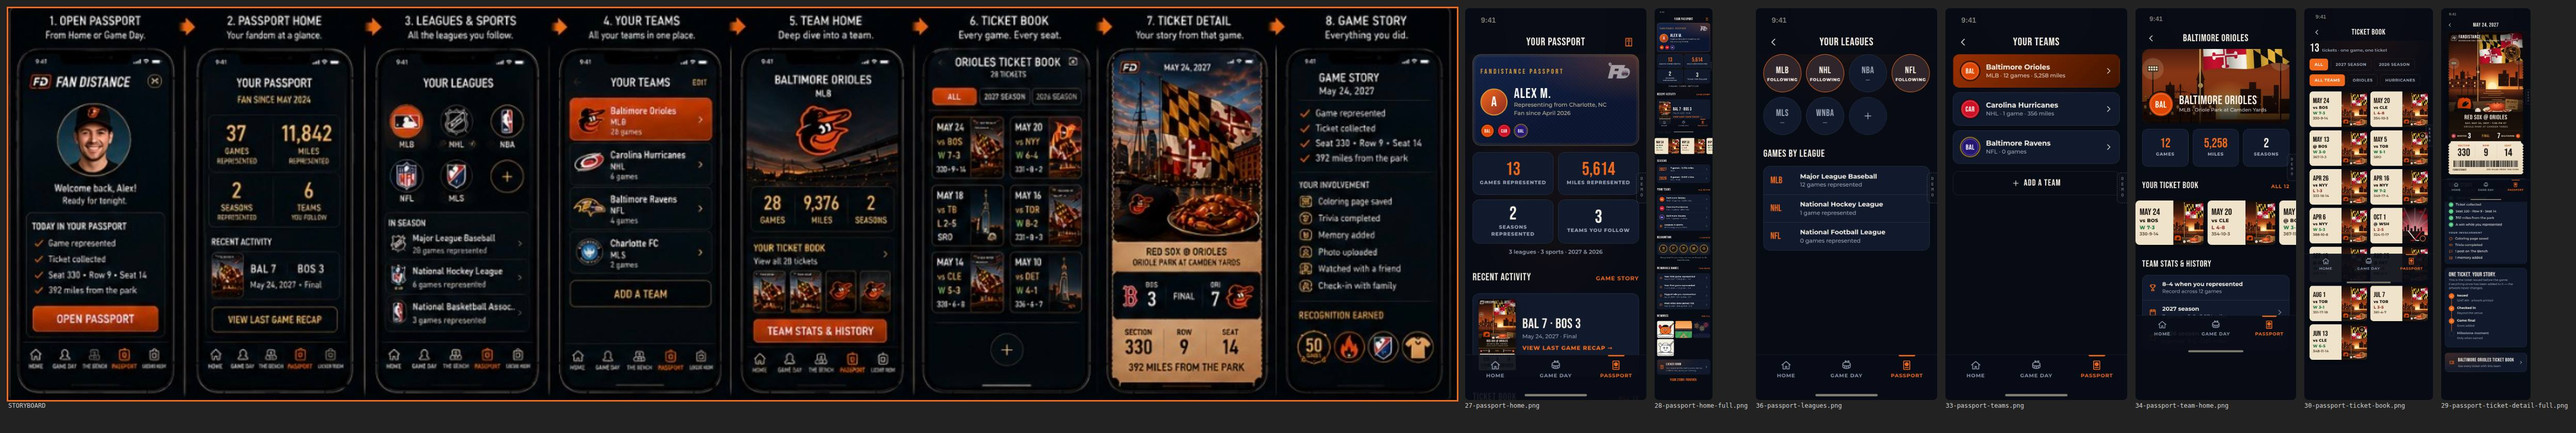
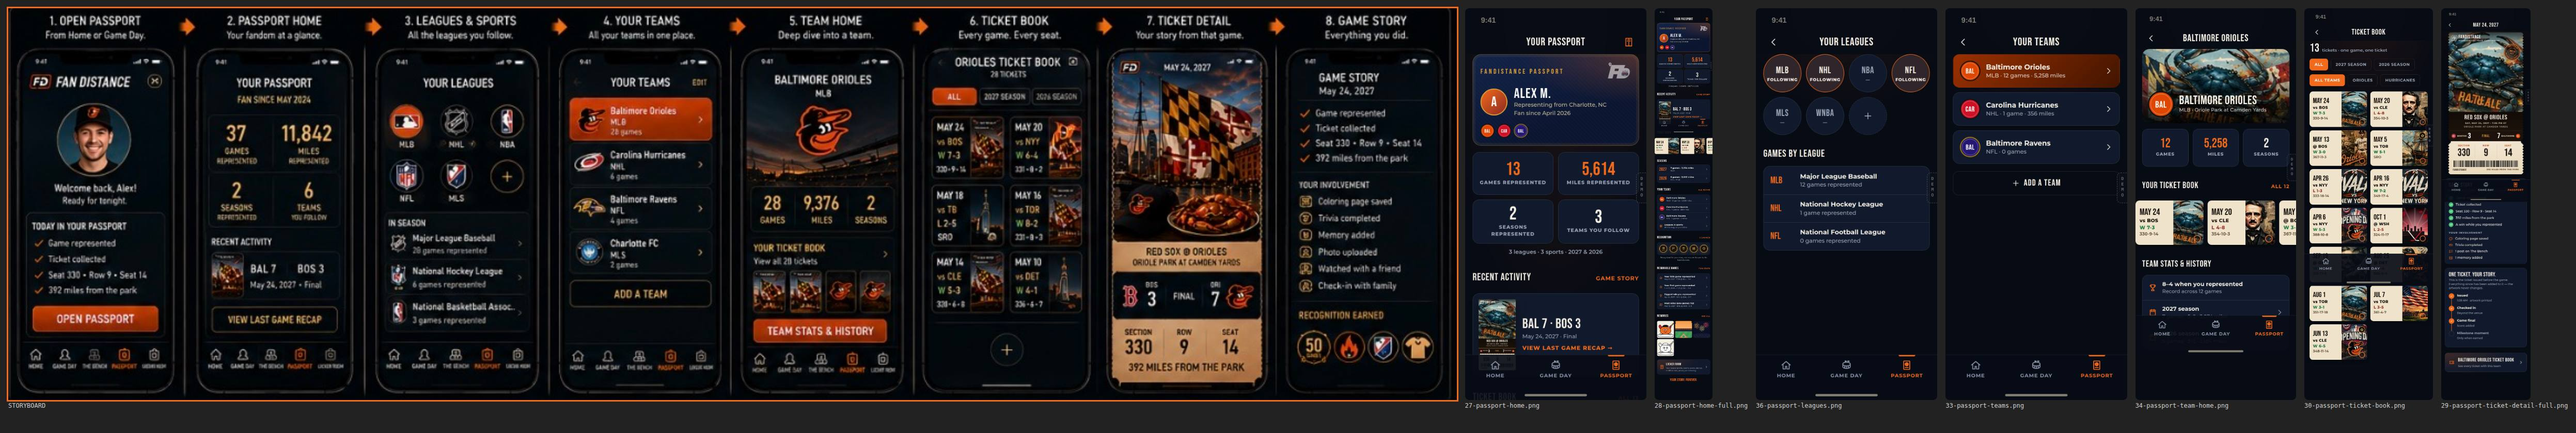
Use approved Orioles ticket art concepts on tickets
- Add the approved 24-concept Orioles art sheet to docs/storyboards
- Cut 23 concepts into public/art/orioles (24 Last Home Game is obscured
  by a screen overlay in the supplied image and is left out)
- Artwork catalog with per-concept focal points; tickets carry an
  artImage frozen at issue: Blue Crab for tonight's game, Giveaway Day on
  the milestone giveaway game, Opening Day on season openers, July 4th,
  Rivalry Series vs New York, stable rotation otherwise
- Other teams keep the generated posters
- Saved demo state bumped to v2 so existing sessions pick up the art

Claude-Session: https://claude.ai/code/session_01DnBaGdaMLzfrAvJsYXQgfC

diff --git a/src/data/artwork.ts b/src/data/artwork.ts
@@ -1,0 +1,73 @@
+import type { HistoryGame } from './types';
+
+/**
+ * Approved Baltimore Orioles ticket art concepts (docs/storyboards/06-orioles-ticket-art-concepts.png).
+ * The sheet marks these as art direction; final artwork is produced per game for the 2027 season.
+ * Until those masters arrive, each concept is cut from the approved sheet into public/art/orioles/.
+ * `focus` is the object-position used when the landscape concept fills the portrait ticket.
+ */
+export interface Artwork {
+  id: string;
+  n: number;
+  title: string;
+  file: string;
+  focus: string;
+}
+
+const A = (n: number, id: string, title: string, focus = '50% 50%'): Artwork => ({
+  id,
+  n,
+  title,
+  file: `${String(n).padStart(2, '0')}-${id}.webp`,
+  focus,
+});
+
+export const ORIOLES_ART: Artwork[] = [
+  A(1, 'camden-yards', 'Camden Yards Icon', '38% 50%'),
+  A(2, 'orioles-player', 'Orioles Player', '42% 50%'),
+  A(3, 'pitcher-on-the-mound', 'Pitcher on the Mound', '48% 50%'),
+  A(4, 'city-skyline', 'City Skyline', '52% 50%'),
+  A(5, 'inner-harbor', 'Inner Harbor', '30% 50%'),
+  A(6, 'blue-crab', 'Blue Crab', '52% 50%'),
+  A(7, 'black-eyed-susans', 'Black-Eyed Susans', '50% 50%'),
+  A(8, 'edgar-allan-poe', 'Edgar Allan Poe', '58% 50%'),
+  A(9, 'poe-pitcher', 'Poe + Pitcher', '40% 50%'),
+  A(10, 'rowhouses', 'Rowhouses', '35% 50%'),
+  A(11, 'fort-mchenry', 'Fort McHenry / Flag', '45% 50%'),
+  A(12, 'chesapeake-bay', 'Chesapeake Bay', '70% 50%'),
+  A(13, 'stadium-night-lights', 'Stadium Night Lights', '50% 50%'),
+  A(14, 'orioles-raven', 'Orioles Raven', '55% 50%'),
+  A(15, 'baseball-still-life', 'Baseball Still Life', '45% 50%'),
+  A(16, 'history-heritage', 'History & Heritage', '65% 50%'),
+  A(17, 'harbor-ship-heritage', 'Harbor Ship Heritage', '40% 50%'),
+  A(18, 'baltimore-railroad', 'Baltimore Railroad', '42% 50%'),
+  A(19, 'opening-day', 'Opening Day', '50% 50%'),
+  A(20, 'july-4th-fireworks', 'July 4th Fireworks', '50% 50%'),
+  A(21, 'fan-celebration', 'Fan Celebration', '35% 50%'),
+  A(22, 'giveaway-day', 'Giveaway Day', '40% 50%'),
+  A(23, 'rivalry-series', 'Rivalry Series', '50% 50%'),
+  // 24 Last Home Game: not yet available — the supplied sheet has a screen overlay across it.
+];
+
+const BY_ID = Object.fromEntries(ORIOLES_ART.map((a) => [a.id, a]));
+
+export const artwork = (id?: string): Artwork | undefined => (id ? BY_ID[id] : undefined);
+
+export const artworkUrl = (a: Artwork) => `${import.meta.env.BASE_URL}art/orioles/${a.file}`;
+
+/** Everyday concepts rotated across regular games (event concepts are reserved for their moments). */
+const EVERYDAY = ORIOLES_ART.filter((a) => !['opening-day', 'july-4th-fireworks', 'giveaway-day', 'rivalry-series'].includes(a.id));
+
+function hash(s: string) {
+  let h = 2166136261;
+  for (const c of s) h = Math.imul(h ^ c.charCodeAt(0), 16777619);
+  return h >>> 0;
+}
+
+/** Picks the concept for a past Orioles game: event art for its moment, otherwise a stable rotation. */
+export function orioleArtFor(h: HistoryGame, isSeasonOpener: boolean): string {
+  if (isSeasonOpener) return 'opening-day';
+  if (h.date === 'Jul 4') return 'july-4th-fireworks';
+  if (h.opponent === 'NYY') return 'rivalry-series';
+  return EVERYDAY[hash(h.id) % EVERYDAY.length].id;
+}

diff --git a/src/data/scenarios.ts b/src/data/scenarios.ts
@@ -42,6 +42,7 @@ const baseGame = (over: Partial<Game> = {}): Game => ({
   season: '2027',
   venue: 'Oriole Park at Camden Yards',
   art: 'baltimore-harbor',
+  artImage: 'blue-crab',
   status: 'window',
   startsInMin: 55,
   seat: { kind: 'seat', section: '330', row: '9', seat: '14' },
@@ -66,6 +67,7 @@ export const issueTicketFor = (game: Game, fan: Fan, now: number): Ticket => ({
   id: `tkt-${game.id}`,
   gameId: game.id,
   art: game.art,
+  artImage: game.artImage,
   issuedAt: now,
   seat: game.seat ?? { kind: 'sro', area: 'Standing Room Only' },
   joinedCount: game.joinedCount,
@@ -166,6 +168,7 @@ export function buildScenario(id: ScenarioId, now: number): ScenarioData {
             timeLabel: '7:00 PM ET',
             venue: 'Lenovo Center',
             art: 'raleigh-ice',
+            artImage: undefined,
             status: 'live',
             startsInMin: -15,
             seat: { kind: 'seat', section: '305', row: 'F', seat: '7' },
@@ -180,6 +183,7 @@ export function buildScenario(id: ScenarioId, now: number): ScenarioData {
             timeLabel: '8:15 PM ET',
             venue: 'M&T Bank Stadium',
             art: 'baltimore-gridiron',
+            artImage: undefined,
             status: 'window',
             startsInMin: 60,
             seat: { kind: 'seat', section: '540', row: '12', seat: '3' },
@@ -211,6 +215,7 @@ export function buildScenario(id: ScenarioId, now: number): ScenarioData {
       const game = baseGame({
         status: 'live',
         startsInMin: -40,
+        artImage: 'giveaway-day',
         milestones: [{ kind: 'giveaway', label: 'GIVEAWAY', detail: 'Orange Hat Night giveaway', value: 'HAT' }],
       });
       const t = issueTicketFor(game, FAN, now - 1000 * 60 * 95);

diff --git a/src/state/store.test.ts b/src/state/store.test.ts
@@ -25,6 +25,8 @@ describe('ticket lifecycle: one game = one ticket', () => {
     const t = s.data.tickets[GAME];
     expect(t.id).toBe(issued.id);
     expect(t.art).toBe(issued.art);
+    expect(t.artImage).toBe('blue-crab');
+    expect(t.artImage).toBe(issued.artImage);
     expect(t.issuedAt).toBe(issued.issuedAt);
     expect(t.checkedInAt).toBe(3000);
     expect(t.finalScore).toEqual({ home: 7, away: 3 });
@@ -38,6 +40,7 @@ describe('ticket lifecycle: one game = one ticket', () => {
     const labels = s.data.tickets[GAME].marks.map((m) => m.label);
     expect(labels).toEqual(['50 GAMES', '5-GAME STREAK', 'GIVEAWAY']);
     expect(s.data.tickets[GAME].art).toBe(before.art);
+    expect(s.data.tickets[GAME].artImage).toBe('giveaway-day');
   });
 
   it('keeps the ticket permanently in the Passport ticket book', () => {
@@ -55,5 +58,14 @@ describe('ticket lifecycle: one game = one ticket', () => {
     let s = initialState('B', 1000);
     s = reducer(s, { type: 'issueTicket', gameId: GAME, now: 2000 });
     expect(s.data.tickets[GAME].seat.kind).toBe('sro');
+  });
+});
+
+describe('approved Orioles artwork', () => {
+  it('gives every past Orioles ticket an approved concept, with Opening Day on each season opener', () => {
+    const book = allTickets(initialState('F', 1000)).filter((t) => t.fanTeamId === 'BAL');
+    expect(book.every((t) => t.artImage)).toBe(true);
+    const openers = ['2026', '2027'].map((season) => book.filter((t) => t.season === season).at(-1)!);
+    for (const t of openers) expect(t.artImage).toBe('opening-day');
   });
 });

diff --git a/src/components/TicketArt.tsx b/src/components/TicketArt.tsx
@@ -1,8 +1,11 @@
 import { useId, type ReactNode } from 'react';
 import type { ArtThemeId } from '../data/types';
+import { artwork, artworkUrl } from '../data/artwork';
 
 interface Props {
   theme: ArtThemeId;
+  /** Approved artwork concept id; renders that image instead of the generated poster. */
+  image?: string;
   /** e.g. ['05', '24', '27'] — date identity painted into the artwork */
   date: string;
   time: string;
@@ -14,7 +17,10 @@ interface Props {
  * Collectible poster artwork. Generated once per game and frozen on the ticket:
  * team identity, city/local culture, venue elements, game specifics and date/time.
  */
-export function TicketArt({ theme, date, time, lite }: Props) {
+export function TicketArt({ theme, image, date, time, lite }: Props) {
+  const approved = artwork(image);
+  if (approved)
+    return <img className="ticket-art-svg ticket-art-img" src={artworkUrl(approved)} alt="" style={{ objectPosition: approved.focus }} decoding="async" draggable={false} />;
   const uid = useId().replace(/:/g, '');
   switch (theme) {
     case 'baltimore-harbor':

diff --git a/src/data/history.ts b/src/data/history.ts
@@ -1,5 +1,6 @@
 import type { ArtThemeId, HistoryGame, Sport } from './types';
 import { TEAMS } from './teams';
+import { orioleArtFor } from './artwork';
 
 /** Deterministic PRNG so demo history is identical on every load. */
 function mulberry32(seed: number) {
@@ -86,6 +87,14 @@ export function buildHistory(specs: HistorySpec[], seed = 7): HistoryGame[] {
         miles,
       });
     });
+  }
+  // Orioles tickets carry the approved Baltimore artwork concepts
+  const openers = new Set<string>();
+  for (const h of [...out].sort((a, b) => sortKey(a) - sortKey(b))) {
+    if (h.teamId !== 'BAL') continue;
+    const opener = !openers.has(h.season);
+    openers.add(h.season);
+    h.artImage = orioleArtFor(h, opener);
   }
   // newest first
   return out.sort((a, b) => sortKey(b) - sortKey(a));

diff --git a/src/state/store.tsx b/src/state/store.tsx
@@ -21,7 +21,7 @@ export interface Prefs {
 }
 
 export interface AppState {
-  v: 1;
+  v: 2;
   scenario: ScenarioId;
   loadedAt: number;
   data: ScenarioData;
@@ -43,7 +43,7 @@ const DEFAULT_PREFS: Prefs = {
 
 export function initialState(scenario: ScenarioId = 'A', now = Date.now()): AppState {
   return {
-    v: 1,
+    v: 2,
     scenario,
     loadedAt: now,
     data: buildScenario(scenario, now),
@@ -171,7 +171,7 @@ function load(): AppState {
     const raw = localStorage.getItem(STORAGE_KEY);
     if (raw) {
       const parsed = JSON.parse(raw) as AppState;
-      if (parsed?.v === 1 && parsed.data?.games) return parsed;
+      if (parsed?.v === 2 && parsed.data?.games) return parsed;
     }
   } catch {
     /* storage unavailable — fall through to a fresh demo */

diff --git a/src/data/types.ts b/src/data/types.ts
@@ -32,6 +32,8 @@ export interface Game {
   season: string; // "2027"
   venue: string;
   art: ArtThemeId;
+  /** Approved team artwork concept id (src/data/artwork.ts); falls back to `art` when absent. */
+  artImage?: string;
   status: GameStatus;
   /** minutes until first pitch at the moment the scenario loads */
   startsInMin: number;
@@ -67,6 +69,7 @@ export interface Ticket {
   id: string; // `tkt-${gameId}`
   gameId: string;
   art: ArtThemeId;
+  artImage?: string;
   issuedAt: number;
   seat: SeatAssignment;
   joinedCount: number;
@@ -110,6 +113,7 @@ export interface HistoryGame {
   score: string; // "6-4"
   seat: string; // "331-8-2" or "SRO"
   art: ArtThemeId;
+  artImage?: string;
   miles: number;
 }
 

diff --git a/src/state/selectors.ts b/src/state/selectors.ts
@@ -9,6 +9,7 @@ export interface TicketView {
   id: string;
   gameId: string;
   art: ArtThemeId;
+  artImage?: string;
   homeId: string;
   awayId: string;
   dateLabel: string;
@@ -40,6 +41,7 @@ export function ticketView(s: AppState, t: Ticket): TicketView {
     id: t.id,
     gameId: g.id,
     art: t.art,
+    artImage: t.artImage,
     homeId: g.homeId,
     awayId: g.awayId,
     dateLabel: g.dateLabel,
@@ -87,6 +89,7 @@ export function historyTicketView(h: HistoryGame, ordinal: number): TicketView {
     id: h.id,
     gameId: h.id,
     art: h.art,
+    artImage: h.artImage,
     homeId,
     awayId,
     dateLabel: `${DOW[d.getDay()]}, ${mon.toUpperCase()} ${day}, ${h.season}`,

diff --git a/src/components/Ticket.tsx b/src/components/Ticket.tsx
@@ -59,7 +59,7 @@ export function Ticket({ view, phase = 'static', printMs = 2800, stampIn, scoreI
         {/* Everything that prints onto the stock */}
         <div className="ticket-print">
           <div className="ticket-art">
-            <TicketArt theme={view.art} date={artDate} time={view.timeLabel.replace(' ET', '')} lite={lite} />
+            <TicketArt theme={view.art} image={view.artImage} date={artDate} time={view.timeLabel.replace(' ET', '')} lite={lite} />
             <div className="ticket-brand">
               <span className="ticket-brand-fd">FD</span>
               <span>

diff --git a/src/screens/passport/Teams.tsx b/src/screens/passport/Teams.tsx
@@ -97,7 +97,7 @@ export function TeamHome() {
       <div className="wrap">
         <div className="th-hero" style={{ ['--team' as string]: team.primary }}>
           <div className="th-art">
-            <TicketArt theme={st.tickets[0]?.art ?? 'baltimore-harbor'} date="" time="" lite />
+            <TicketArt theme={st.tickets[0]?.art ?? 'baltimore-harbor'} image={st.tickets[0]?.artImage} date="" time="" lite />
           </div>
           <div className="th-id">
             <TeamMark id={teamId} size={64} />

diff --git a/src/screens/passport/parts.tsx b/src/screens/passport/parts.tsx
@@ -61,7 +61,7 @@ export function Stub({ t }: { t: TicketView }) {
         <small>{t.seat.kind === 'seat' ? `${t.seat.section}-${t.seat.row}-${t.seat.seat}` : 'SRO'}</small>
       </div>
       <div className="stub-art">
-        <TicketArt theme={t.art} date="" time="" lite />
+        <TicketArt theme={t.art} image={t.artImage} date="" time="" lite />
         {t.marks.length > 0 && (
           <span className="stub-mark" aria-hidden="true">
             <Icon name="star" size={11} stroke={2.4} />

diff --git a/src/components/ticket.css b/src/components/ticket.css
@@ -80,6 +80,11 @@
   height: 100%;
 }
 
+.ticket-art-img {
+  object-fit: cover;
+  user-select: none;
+}
+
 .ticket-brand {
   position: absolute;
   top: 0;
